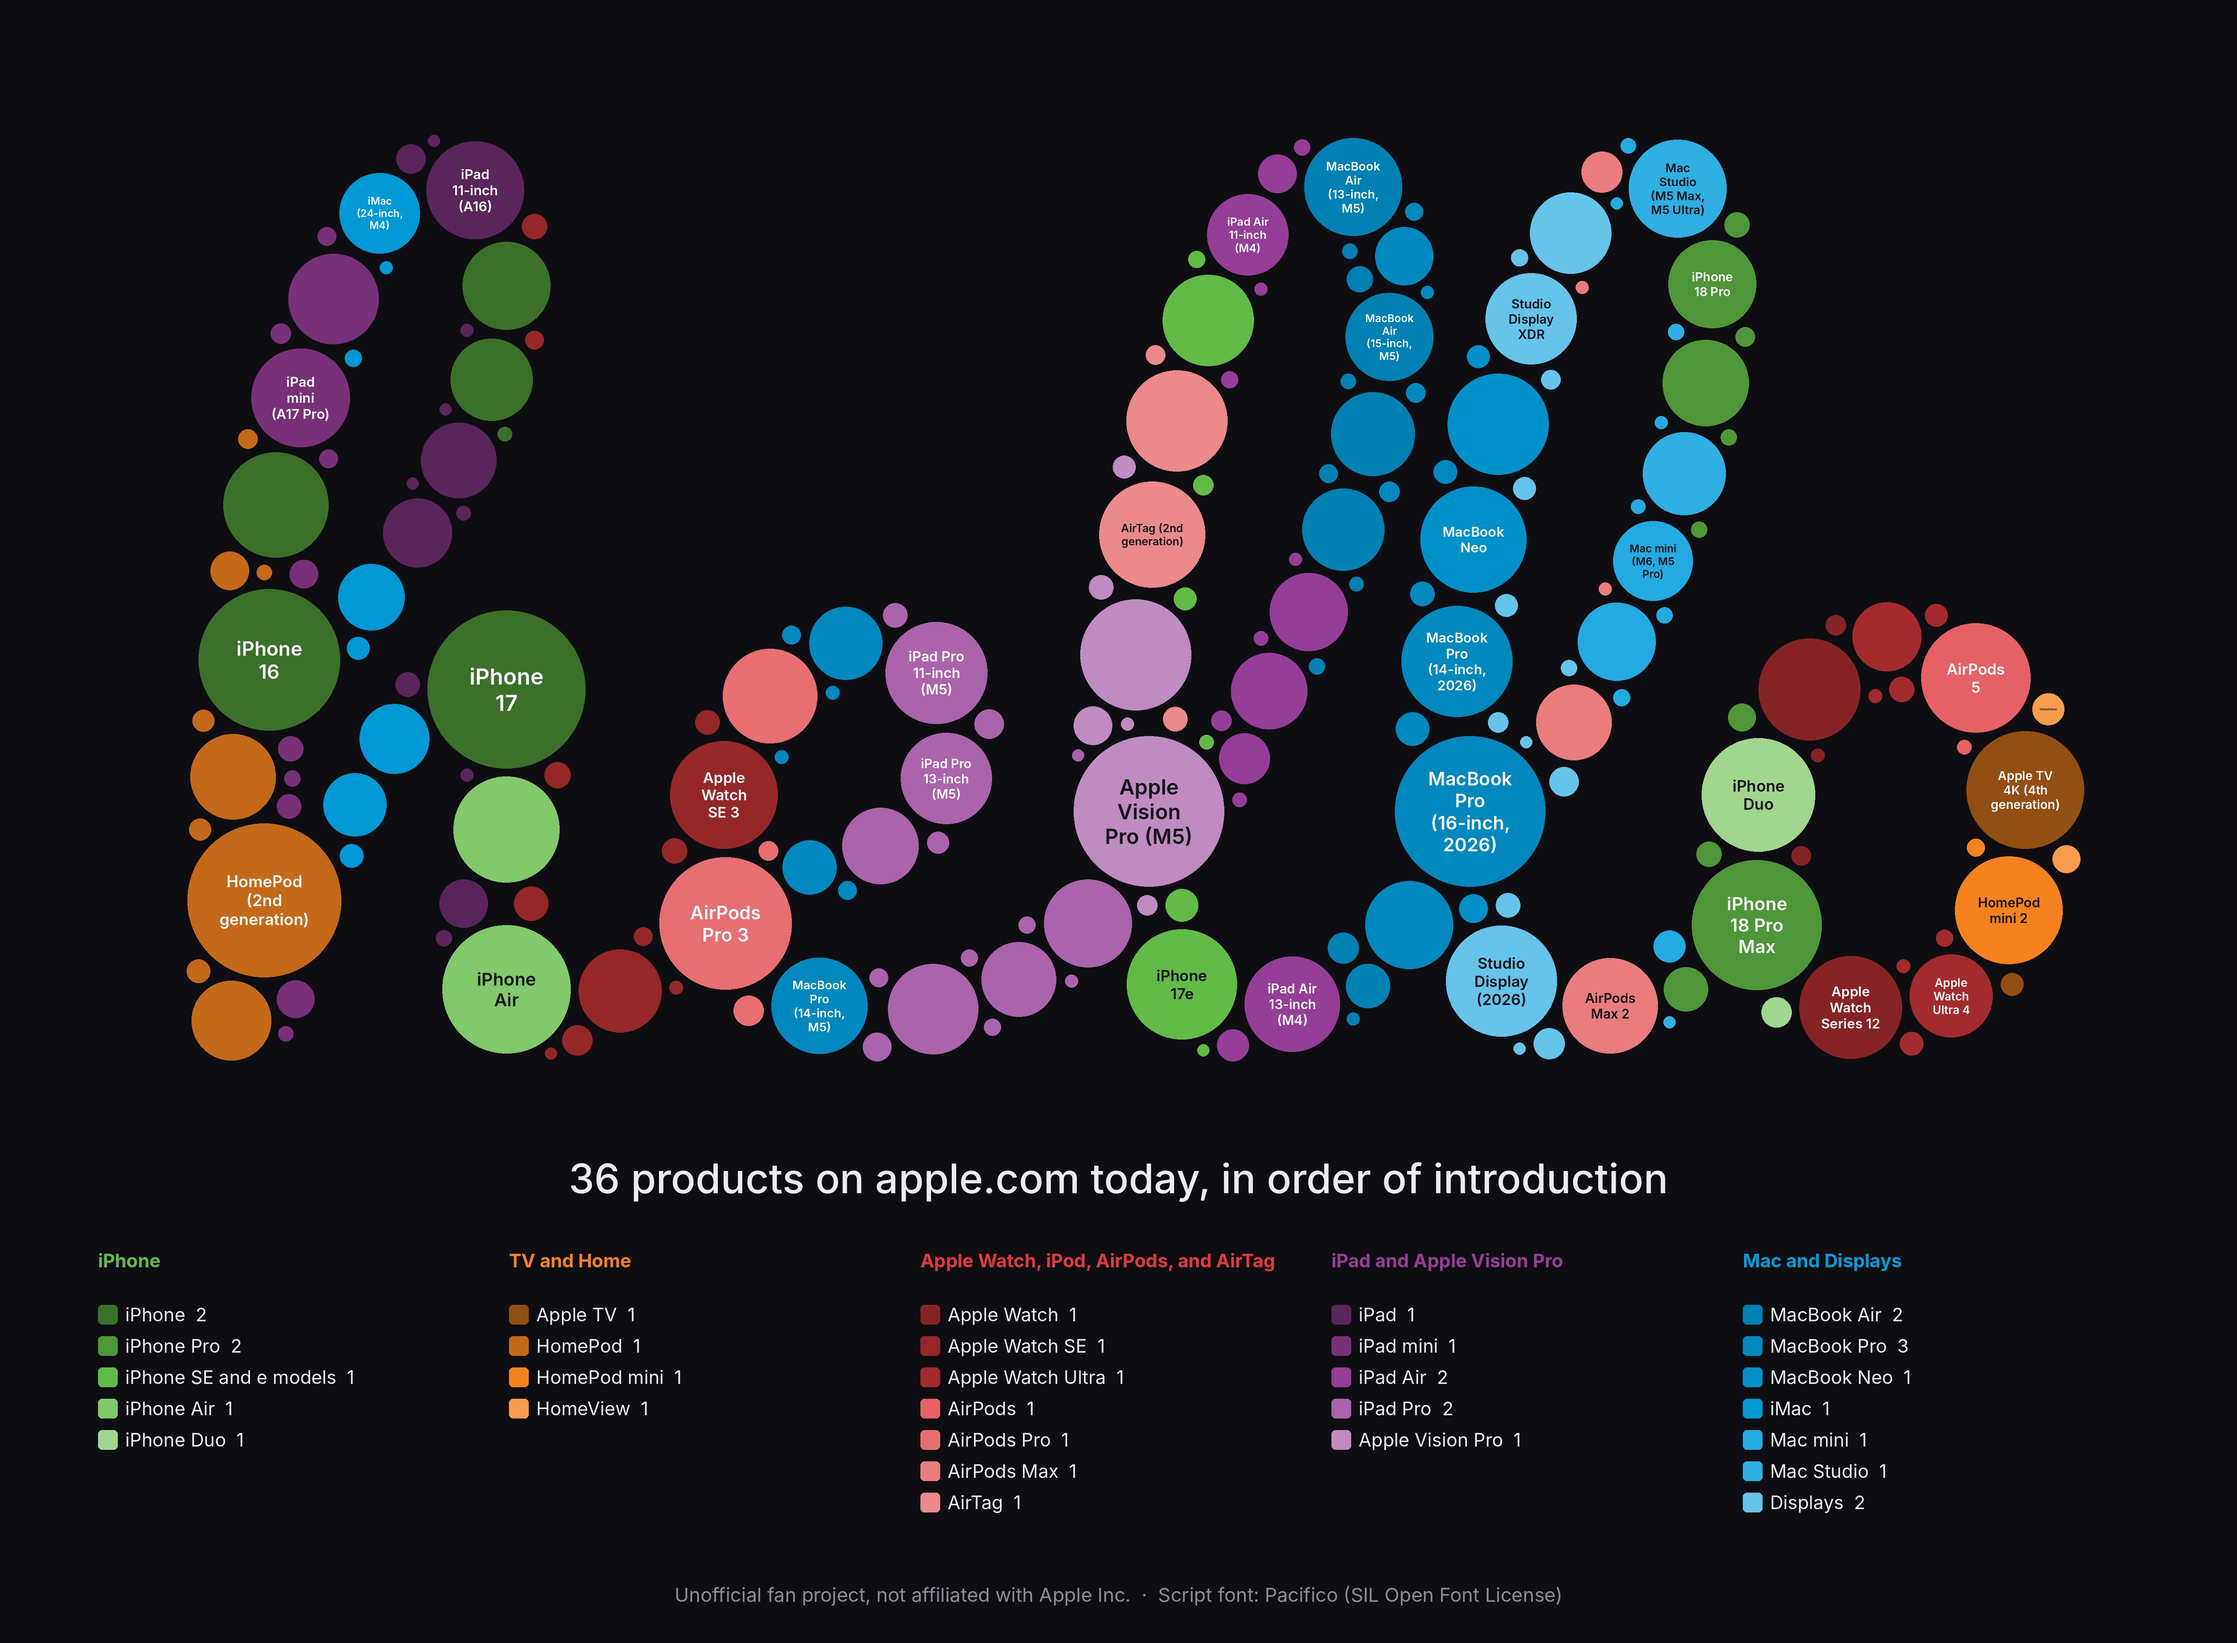
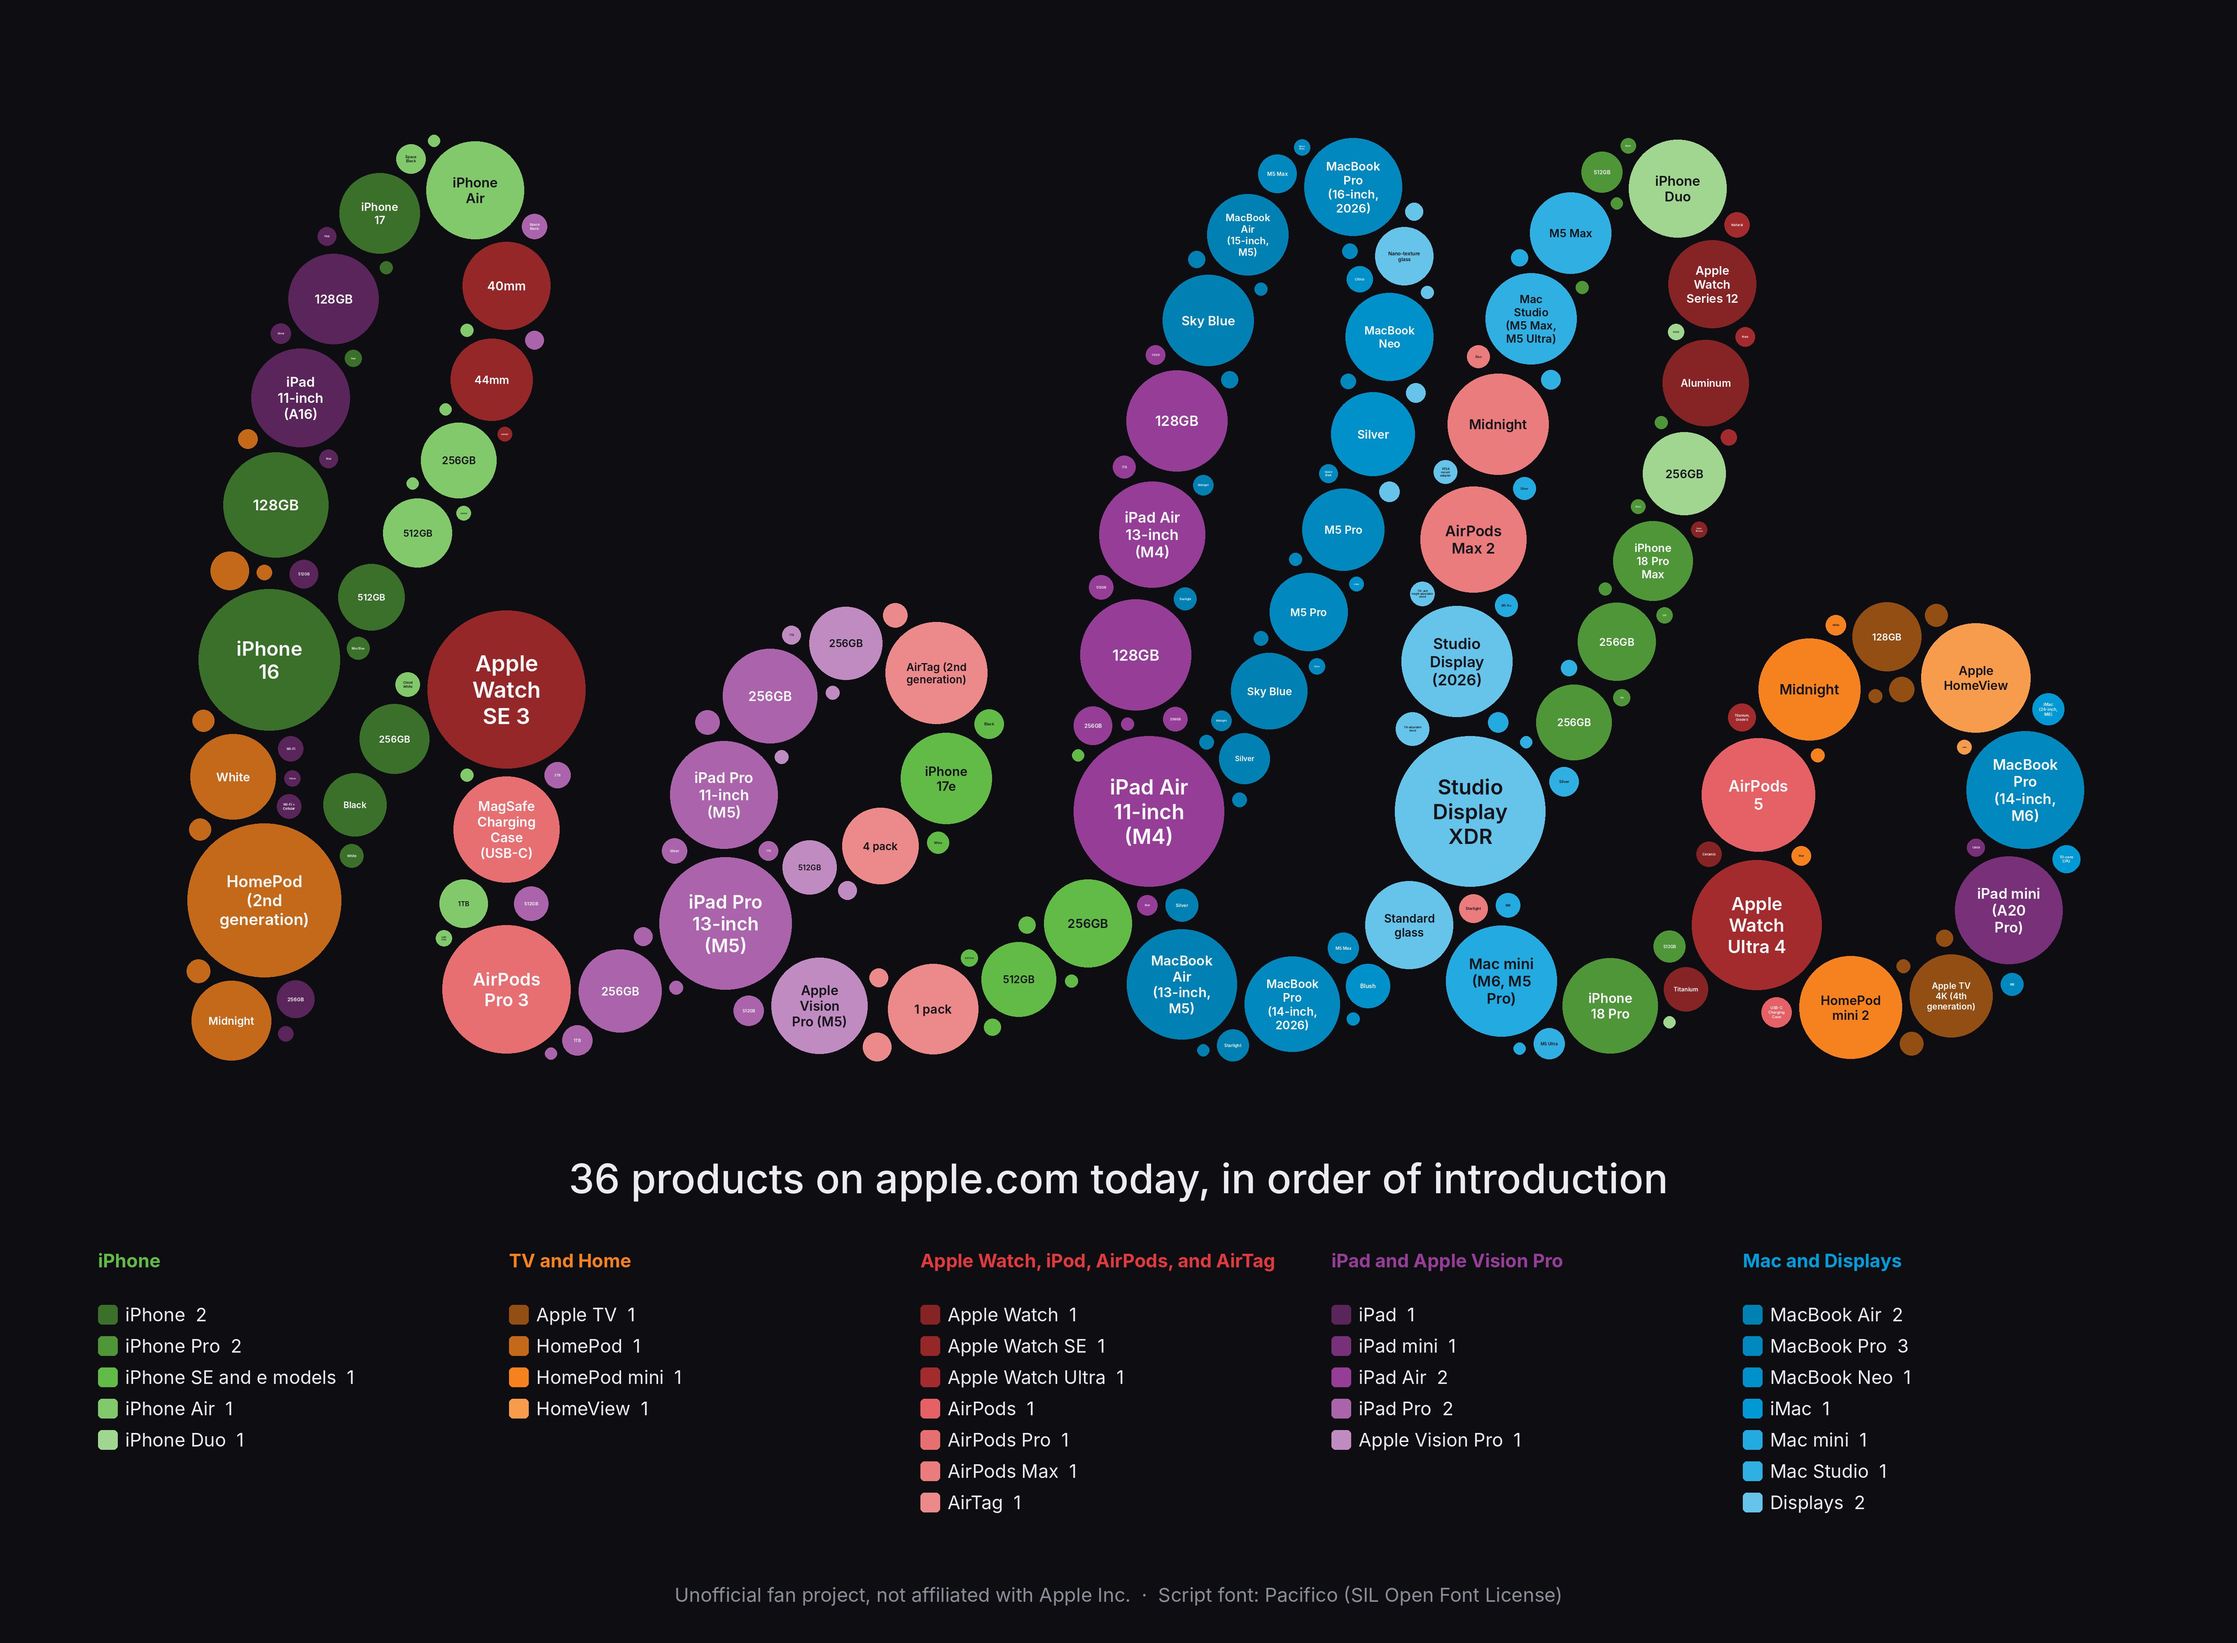
Label smaller bubbles with each product's configurations
Configurations come from Apple's tech specs pages. Also adds this week's
iPad mini (A20 Pro), MacBook Pro (14-inch, M6), and iMac (24-inch, M6),
retires the models they replace, and restores Apple's name Apple HomeView.

Claude-Session: https://claude.ai/code/session_01MyV9r8x459Jz8C5bHCgrmS

Changed region(s): [[0.0933, 0.0622, 0.9334, 0.6528], [0.1244, 0.5906, 0.1556, 0.6217]]

diff --git a/scripts/render.py b/scripts/render.py
@@ -234,6 +234,18 @@ def draw_group(canvas: Image.Image, product: dict, bubbles: list[Bubble], origin
     color = type_color(product_type(product))
     for b in bubbles:
         draw.ellipse((ox + b.x - b.r, oy + b.y - b.r, ox + b.x + b.r, oy + b.y + b.r), fill=color)
+    # Smaller bubbles in the cluster show the product's configurations, such as sizes,
+    # storage, chips, and finishes, largest bubble first.
+    text_color = text_color_for(color)
+    for b, variant in zip(bubbles[1:], product.get("variants", [])):
+        side = b.r * 1.41
+        if side < 24:
+            continue  # too small to read even when zoomed in
+        vf, vsize, vlines = fit_label(variant, side)
+        vh = vsize * 1.18
+        vtop = oy + b.y - vh * len(vlines) / 2 + vh / 2
+        for i, line in enumerate(vlines):
+            draw.text((ox + b.x, vtop + i * vh), line, font=vf, fill=text_color, anchor="mm")
     main = bubbles[0]
     cx, cy = ox + main.x, oy + main.y
     photo = load_photo(product)

diff --git a/README.md b/README.md
@@ -17,7 +17,7 @@ Full-size images: [hello.jpg](output/hello.jpg) and [thank_you.jpg](output/thank
 1. **The data** lives in [`data/products.json`](data/products.json). Each product has a name, a category, a release month, and a `current` flag that says whether apple.com still sells it new.
 2. **The words** are set in [Pacifico](https://fonts.google.com/specimen/Pacifico), an open-source script font included in `assets/fonts`.
 3. **The bubbles** fill each word completely. The script packs circles of many sizes into the letters, largest first, so thick strokes hold big bubbles and thin strokes hold small ones.
-4. **The order** follows the word from left to right. **hello** lists today's products by introduction date, and **thank you** lists past products by retirement date. Each product gets one cluster of neighboring bubbles in its color. Its largest bubble shows its photo or name, so every product appears exactly once. Retirement dates come from Wikipedia's list of Apple products.
+4. **The order** follows the word from left to right. **hello** lists today's products by introduction date, and **thank you** lists past products by retirement date. Each product gets one cluster of neighboring bubbles in its color. Its largest bubble shows its photo or name, so every product appears exactly once, and the smaller bubbles show its configurations, such as sizes, storage, chips, and finishes, taken from Apple's tech specs pages. Retirement dates come from Wikipedia's list of Apple products.
 5. **The photos** come from Wikimedia Commons, the free media library behind Wikipedia. Each product's largest bubble shows its photo in a white circle. Products without a freely licensed photo show their name instead. Every photo is credited in [CREDITS.md](CREDITS.md).
 6. **The weekly update** runs on GitHub Actions every Tuesday at 3:00 p.m. Pacific time. It checks Wikipedia for new releases, checks apple.com for the current lineup, downloads any missing photos, redraws the images, and opens a pull request for review. When Apple retires a product, it moves from **hello** to **thank you** automatically.
 
@@ -71,6 +71,7 @@ Open `data/products.json` and add, remove, or correct a product. Then run `pytho
 | `current` | `true` places the product in **hello**, `false` in **thank you** |
 | `retired` | Month Apple discontinued the product, as `YYYY-MM`. Sets its place in **thank you**. Added automatically when a product leaves apple.com |
 | `apple_name` | Optional. The exact name apple.com uses, such as "iPhone 17e" |
+| `variants` | Optional. Configurations shown in the product's smaller bubbles, such as "256GB" or "Sky Blue", largest bubble first |
 | `image_file` | Optional. A specific Wikimedia Commons file to use as the photo, such as "iPhone 4 Black.jpg" |
 | `needs_review` | Added by the update scripts. Check the entry, then delete this field |
 
